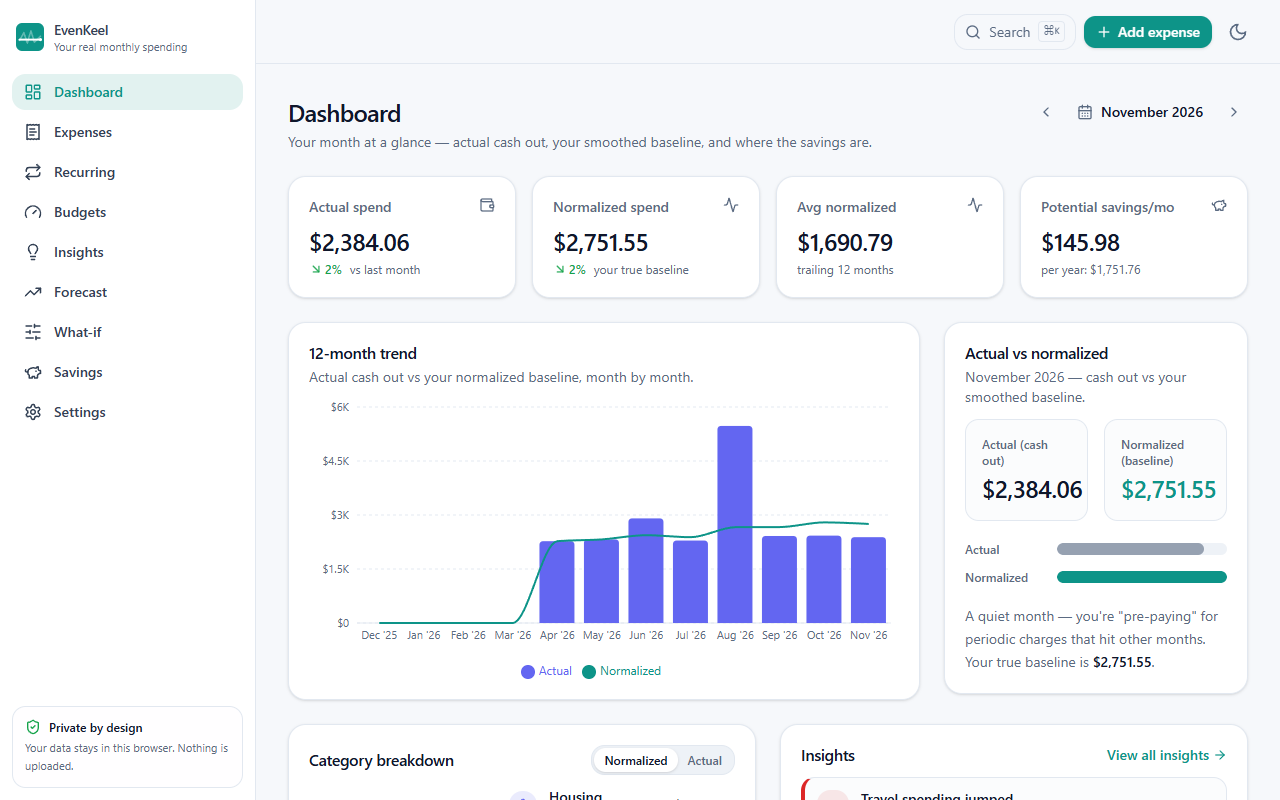
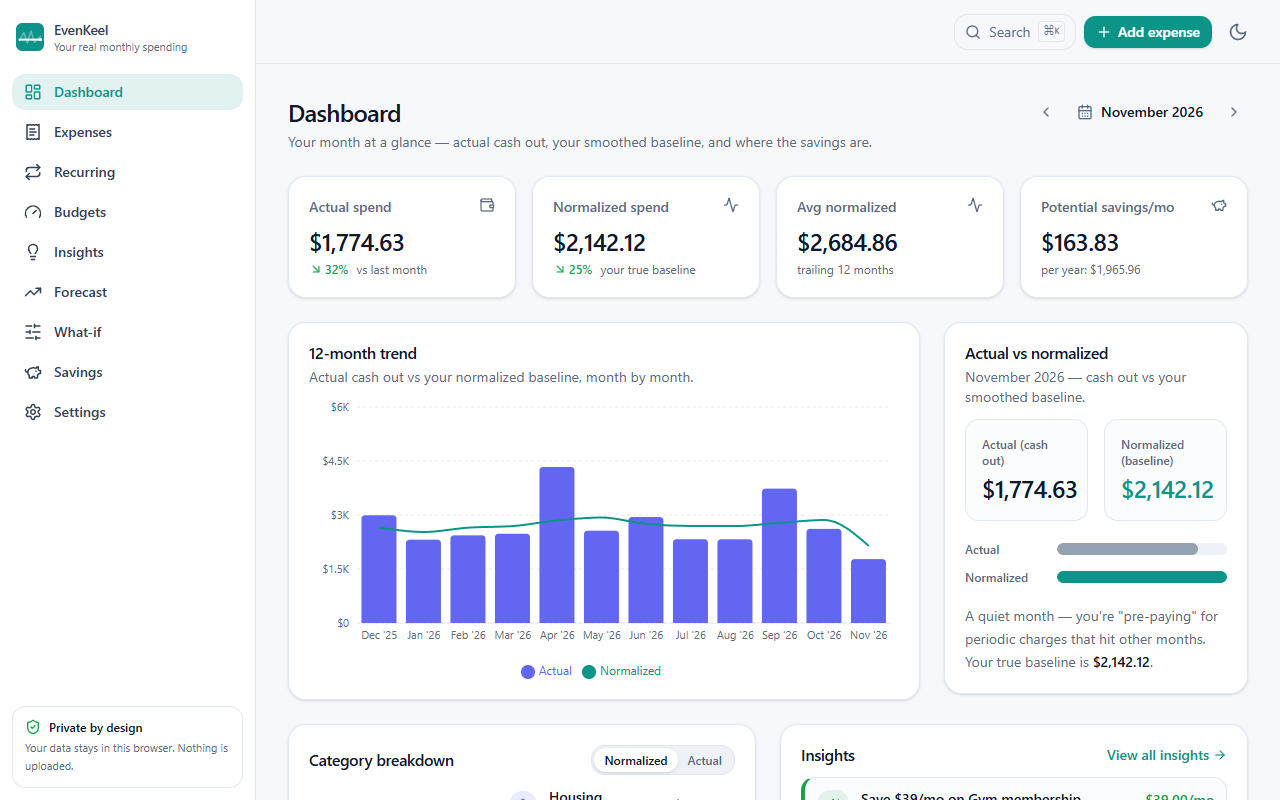
Demo data: a full, stable year with nothing in the future; fix clipped Insights cards
- Seed 12 months instead of 8 so the 12-month trend is full, and anchor the
  yearly and half-yearly charges a year back so their smoothed share covers
  every month while their spikes still show inside the chart.
- Use a fixed-seed generator so a fresh install always shows the same totals.
- Drop this month's one-off demo expenses dated after today.
- Insights: show the two lists side by side only from 2xl, since the
  subscription table needs ~34rem, and stack the Needs vs wants card on lg+.
- Refresh the README screenshots.

diff --git a/src/db/seed.ts b/src/db/seed.ts
@@ -5,7 +5,7 @@
  */
 import type { Category, Expense, RecurringExpense, SavingsGoal } from "@/types";
 import { newId, now } from "@/db/database";
-import { addMonthsToKey, currentMonthKey } from "@/lib/date";
+import { addMonthsToKey, currentMonthKey, todayISO } from "@/lib/date";
 
 interface SeedBundle {
   expenses: Expense[];
@@ -13,11 +13,20 @@ interface SeedBundle {
   goals: SavingsGoal[];
 }
 
+// A fixed-seed generator (mulberry32), so the demo tells the same story and
+// shows the same totals on every fresh install.
+let state = 0x5eed;
+function random(): number {
+  state = (state + 0x6d2b79f5) | 0;
+  let t = Math.imul(state ^ (state >>> 15), 1 | state);
+  t = (t + Math.imul(t ^ (t >>> 7), 61 | t)) ^ t;
+  return ((t ^ (t >>> 14)) >>> 0) / 4294967296;
+}
 function pick<T>(arr: T[]): T {
-  return arr[Math.floor(Math.random() * arr.length)];
+  return arr[Math.floor(random() * arr.length)];
 }
 function rand(min: number, max: number): number {
-  return Math.round((min + Math.random() * (max - min)) * 100) / 100;
+  return Math.round((min + random() * (max - min)) * 100) / 100;
 }
 function day(month: string, d: number): string {
   return `${month}-${String(Math.min(28, Math.max(1, d))).padStart(2, "0")}`;
@@ -27,6 +36,12 @@ export function generateDemoData(categories: Category[], currency: string): Seed
   const byName = new Map(categories.map((c) => [c.name, c.id]));
   const id = (name: string) => byName.get(name) ?? categories[0].id;
   const ts = now();
+  state = 0x5eed;
+  const today = todayISO();
+  // Twelve months of history, so the dashboard's 12-month trend is full.
+  const MONTHS = 12;
+  const first = -(MONTHS - 1);
+  const start = (d: number) => day(addMonthsToKey(currentMonthKey(), first), d);
 
   const expenses: Expense[] = [];
   const recurring: RecurringExpense[] = [];
@@ -36,7 +51,7 @@ export function generateDemoData(categories: Category[], currency: string): Seed
     id: newId(),
     currency,
     interval: 1,
-    anchorDate: day(addMonthsToKey(currentMonthKey(), -7), 1),
+    anchorDate: start(1),
     endDate: null,
     amortize: false,
     active: true,
@@ -46,18 +61,20 @@ export function generateDemoData(categories: Category[], currency: string): Seed
     ...over,
   });
 
-  // Steady essentials + the flagship lumpy charges.
+  // Steady essentials + the flagship lumpy charges. The yearly and half-yearly
+  // ones are anchored a year back, so they land as spikes inside the chart while
+  // their smoothed share already covers every month shown.
   recurring.push(
-    baseRec({ name: "Rent", amount: 1450, categoryId: id("Housing"), frequency: "monthly", anchorDate: day(addMonthsToKey(currentMonthKey(), -7), 1) }),
-    baseRec({ name: "Internet", amount: 60, categoryId: id("Utilities"), frequency: "monthly", anchorDate: day(addMonthsToKey(currentMonthKey(), -7), 5) }),
-    baseRec({ name: "Mobile plan", amount: 45, categoryId: id("Utilities"), frequency: "monthly", anchorDate: day(addMonthsToKey(currentMonthKey(), -7), 8) }),
-    baseRec({ name: "Family life insurance", amount: 1320, categoryId: id("Insurance"), frequency: "annual", amortize: true, anchorDate: day(addMonthsToKey(currentMonthKey(), -3), 14) }),
-    baseRec({ name: "Car insurance", amount: 560, categoryId: id("Insurance"), frequency: "semiannual", amortize: true, anchorDate: day(addMonthsToKey(currentMonthKey(), -5), 20) }),
-    baseRec({ name: "Gym membership", amount: 39, categoryId: id("Entertainment"), frequency: "monthly", anchorDate: day(addMonthsToKey(currentMonthKey(), -7), 3) }),
-    baseRec({ name: "Netflix", amount: 15.49, categoryId: id("Subscriptions"), frequency: "monthly", anchorDate: day(addMonthsToKey(currentMonthKey(), -7), 11) }),
-    baseRec({ name: "Spotify", amount: 10.99, categoryId: id("Subscriptions"), frequency: "monthly", anchorDate: day(addMonthsToKey(currentMonthKey(), -7), 17) }),
-    baseRec({ name: "Cloud storage", amount: 2.99, categoryId: id("Subscriptions"), frequency: "monthly", anchorDate: day(addMonthsToKey(currentMonthKey(), -7), 2) }),
-    baseRec({ name: "Design software", amount: 119.88, categoryId: id("Subscriptions"), frequency: "annual", amortize: true, anchorDate: day(addMonthsToKey(currentMonthKey(), -2), 9) }),
+    baseRec({ name: "Rent", amount: 1450, categoryId: id("Housing"), frequency: "monthly", anchorDate: start(1) }),
+    baseRec({ name: "Internet", amount: 60, categoryId: id("Utilities"), frequency: "monthly", anchorDate: start(5) }),
+    baseRec({ name: "Mobile plan", amount: 45, categoryId: id("Utilities"), frequency: "monthly", anchorDate: start(8) }),
+    baseRec({ name: "Family life insurance", amount: 1320, categoryId: id("Insurance"), frequency: "annual", amortize: true, anchorDate: day(addMonthsToKey(currentMonthKey(), -14), 14) }),
+    baseRec({ name: "Car insurance", amount: 560, categoryId: id("Insurance"), frequency: "semiannual", amortize: true, anchorDate: start(20) }),
+    baseRec({ name: "Gym membership", amount: 39, categoryId: id("Entertainment"), frequency: "monthly", anchorDate: start(3) }),
+    baseRec({ name: "Netflix", amount: 15.49, categoryId: id("Subscriptions"), frequency: "monthly", anchorDate: start(11) }),
+    baseRec({ name: "Spotify", amount: 10.99, categoryId: id("Subscriptions"), frequency: "monthly", anchorDate: start(17) }),
+    baseRec({ name: "Cloud storage", amount: 2.99, categoryId: id("Subscriptions"), frequency: "monthly", anchorDate: start(2) }),
+    baseRec({ name: "Design software", amount: 119.88, categoryId: id("Subscriptions"), frequency: "annual", amortize: true, anchorDate: day(addMonthsToKey(currentMonthKey(), -13), 9) }),
   );
 
   const groceryStores = ["Whole Foods", "Trader Joe's", "Aldi", "Costco", "Local Market"];
@@ -75,8 +92,8 @@ export function generateDemoData(categories: Category[], currency: string): Seed
     ...over,
   });
 
-  // Eight months of discretionary + variable spending.
-  for (let i = 7; i >= 0; i--) {
+  // Twelve months of discretionary + variable spending.
+  for (let i = MONTHS - 1; i >= 0; i--) {
     const m = addMonthsToKey(currentMonthKey(), -i);
 
     // Groceries — a few trips a month.
@@ -93,21 +110,21 @@ export function generateDemoData(categories: Category[], currency: string): Seed
     // Electricity (variable).
     expenses.push(e({ date: day(m, 12), amount: rand(55, 120), categoryId: id("Utilities"), description: "Electricity", method: "directdebit" }));
     // Occasional shopping / entertainment.
-    if (Math.random() > 0.4) {
+    if (random() > 0.4) {
       expenses.push(e({ date: day(m, 16), amount: rand(25, 180), categoryId: id("Shopping"), description: pick(shops), method: "card" }));
     }
-    if (Math.random() > 0.5) {
+    if (random() > 0.5) {
       expenses.push(e({ date: day(m, 19), amount: rand(15, 70), categoryId: id("Entertainment"), description: pick(["Cinema", "Concert", "Game", "Books"]), method: "card" }));
     }
     // A health copay now and then.
-    if (Math.random() > 0.7) {
+    if (random() > 0.7) {
       expenses.push(e({ date: day(m, 10), amount: rand(20, 90), categoryId: id("Health"), description: "Pharmacy", method: "card" }));
     }
   }
 
-  // One splurge: a holiday three months ago (a lumpy, discretionary spike that
+  // One splurge: a holiday seven months ago (a lumpy, discretionary spike that
   // the normalized view will visibly absorb). Amortized over 12 months.
-  const tripMonth = addMonthsToKey(currentMonthKey(), -3);
+  const tripMonth = addMonthsToKey(currentMonthKey(), -7);
   expenses.push(
     e({ date: day(tripMonth, 14), amount: 1850, categoryId: id("Travel"), description: "Weekend city break (flights + hotel)", method: "card", amortizeMonths: 12, tags: ["holiday"] }),
   );
@@ -143,5 +160,6 @@ export function generateDemoData(categories: Category[], currency: string): Seed
     },
   );
 
-  return { expenses, recurring, goals };
+  // Nothing dated in the future: drop this month's one-offs that haven't happened yet.
+  return { expenses: expenses.filter((x) => x.date <= today), recurring, goals };
 }

diff --git a/src/features/insights/NeedsVsWants.tsx b/src/features/insights/NeedsVsWants.tsx
@@ -23,7 +23,7 @@ export function NeedsVsWants({ data }: { data: NeedsWants }) {
         {data.total <= 0 ? (
           <EmptyState title="Nothing to split yet" description="Log some spending to see your needs/wants balance." />
         ) : (
-          <div className="flex flex-col items-center gap-5 sm:flex-row">
+          <div className="flex flex-col items-center gap-5 sm:flex-row lg:flex-col">
             <div className="relative h-36 w-36 shrink-0">
               <ResponsiveContainer width="100%" height="100%">
                 <PieChart>

diff --git a/src/features/insights/InsightsPage.tsx b/src/features/insights/InsightsPage.tsx
@@ -57,7 +57,8 @@ export function InsightsPage() {
 
       <SavingsBanner monthly={totals.monthly} annual={totals.annual} count={opportunities.length} />
 
-      <div className="grid gap-6 lg:grid-cols-2">
+      {/* Side by side only on very wide screens: the subscription table needs ~34rem. */}
+      <div className="grid gap-6 2xl:grid-cols-2">
         <SavingOpportunities opportunities={opportunities} byId={byId} />
         <SubscriptionAudit subscriptions={subscriptions} byId={byId} />
       </div>
